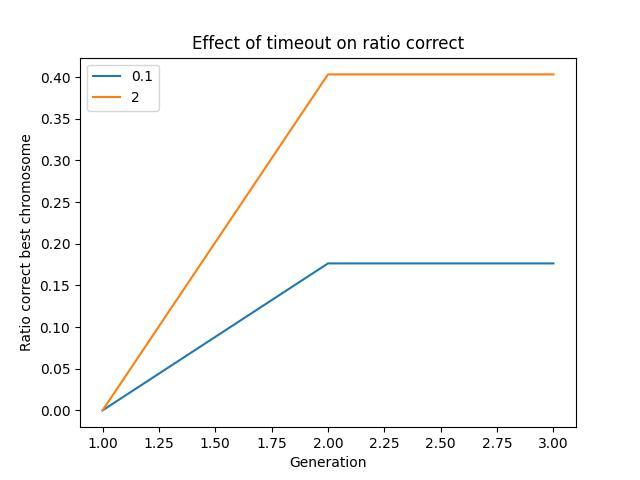
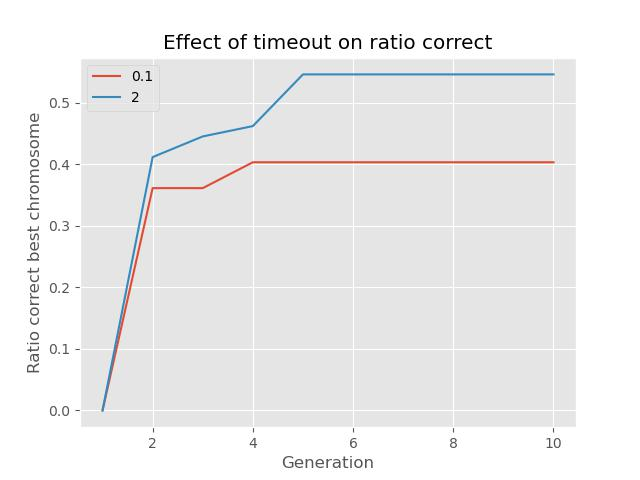
add file path as parameter and add colorblind style

diff --git a/metasynthesis/programming_language/plot_statistics.py b/metasynthesis/programming_language/plot_statistics.py
@@ -8,24 +8,28 @@ from metasynthesis.programming_language.evolve_language import EvolvingLanguage
 
 class LanguageStatistics:
 
-    def __init__(self, domain: str, print_stats: bool = True):
+    def __init__(self, domain: str, print_stats: bool = True, search_mode: str = "debug"):
         self.domain = domain
         self.dsl = StandardDomainSpecificLanguage(domain)
         self.print_stats = print_stats
+        self.search_mode = search_mode
+        self.base_save_path = "metasynthesis/programming_language/results/" + self.search_mode + "/"
+
+        plt.style.use('ggplot')  # ggplot
+        # plt.style.use('tableau-colorblind10')
 
         # These parameters are manually updated based on analysis of the plots
-        self.best_parameters = {"generation_limit": 20,
+        self.best_parameters = {"generation_limit": 10,
                                 "generation_size": 10,
-                                "search_mode": "param",
+                                "search_mode": search_mode,
                                 "search_algorithm": "AS",
                                 "search_setting": "SG",
-                                "max_search_time": 1,
+                                "max_search_time": 0.7,
                                 "crossover_probability": 0.8,
                                 "mutation_probability": 0.3,
                                 }
 
     def plot_search_algorithm_performance(self):
-        plt.style.use('ggplot')  # ggplot
 
         search_algorithms = ["Brute", "AS", "LNS", "MH"]
 
@@ -59,7 +63,7 @@ class LanguageStatistics:
         plt.ylabel("Average generation fitness")
         plt.title("Effect of search algorithm on time and fitness")
         plt.legend(loc="upper left")
-        plt.savefig("metasynthesis/programming_language/results/search_algorithm_comparison.jpg")
+        plt.savefig(self.base_save_path + "search_algorithm_comparison.jpg")
         plt.close()
 
     def plot_search_setting_performance(self):
@@ -102,12 +106,11 @@ class LanguageStatistics:
         plt.ylabel("Average generation fitness")
         plt.title("Effect of search setting on time and fitness")
         plt.legend(loc="upper left")
-        plt.savefig("metasynthesis/programming_language/results/search_setting_comparison.jpg")
+        plt.savefig(self.base_save_path + "search_setting_comparison.jpg")
         plt.close()
 
     def plot_search_timeout_performance(self):
-        # timeouts = [0.1, 0.5, 1, 2, 6, 10]
-        timeouts = [0.1, 2]
+        timeouts = [0.1, 0.5, 1, 2, 6, 10]
 
         general_genetic = EvolvingLanguage(max_search_time=self.best_parameters["max_search_time"],
                                            generation_size=self.best_parameters["generation_size"])
@@ -149,14 +152,14 @@ class LanguageStatistics:
         plt.ylabel("Ratio correct best chromosome")
         plt.title("Effect of timeout on ratio correct")
         plt.legend(loc="upper left")
-        plt.savefig("metasynthesis/programming_language/results/search_timeout_comparison_correct.jpg")
+        plt.savefig(self.base_save_path + "search_timeout_comparison_correct.jpg")
 
         plt.figure(2)
         plt.xlabel("Generation")
         plt.ylabel("Generation time taken")
         plt.title("Effect of timeout on generation time")
         plt.legend(loc="upper left")
-        plt.savefig("metasynthesis/programming_language/results/search_timeout_comparison_time.jpg")
+        plt.savefig(self.base_save_path + "search_timeout_comparison_time.jpg")
 
         plt.close('all')
 
@@ -197,7 +200,7 @@ class LanguageStatistics:
         plt.ylabel("Best fitness")
         plt.title("Effect of mutation methods on fitness")
         plt.legend(loc="upper left")
-        plt.savefig("metasynthesis/programming_language/results/mutation_method_comparison.jpg")
+        plt.savefig(self.base_save_path + "mutation_method_comparison.jpg")
         plt.close()
 
     def plot_crossover_method_performance(self):
@@ -236,7 +239,7 @@ class LanguageStatistics:
         plt.ylabel("Average fitness")
         plt.title("Effect of crossover methods on fitness")
         plt.legend(loc="upper left")
-        plt.savefig("metasynthesis/programming_language/results/crossover_method_comparison.jpg")
+        plt.savefig(self.base_save_path + "crossover_method_comparison.jpg")
         plt.close()
 
     def plot_population_size_performance(self):
@@ -259,7 +262,8 @@ class LanguageStatistics:
             all_results = genetic.run_evolution()
 
             num_explored_languages = all_results["Explored languages"]
-            generations, generation_times, best_fitness_values = extract_generation_time_and_fitness(all_results, "Best fitness")
+            generations, generation_times, best_fitness_values = extract_generation_time_and_fitness(all_results,
+                                                                                                     "Best fitness")
 
             cumulative_generation_times = [sum(generation_times[0:i[0]]) for i in enumerate(generation_times)]
 
@@ -269,7 +273,7 @@ class LanguageStatistics:
         plt.ylabel("Best fitness value")
         plt.title("Effect of population size on fitness vs time passed")
         plt.legend(loc="upper left")
-        plt.savefig("metasynthesis/programming_language/results/population_size_comparison.jpg")
+        plt.savefig(self.base_save_path + "population_size_comparison.jpg")
         plt.close()
 
     def plot_generation_limit_performance(self):
@@ -289,7 +293,8 @@ class LanguageStatistics:
             all_results = genetic.run_evolution()
 
             num_explored_languages = all_results["Explored languages"]
-            generations, generation_times, best_fitness_values = extract_generation_time_and_fitness(all_results, "Best fitness")
+            generations, generation_times, best_fitness_values = extract_generation_time_and_fitness(all_results,
+                                                                                                     "Best fitness")
 
             cumulative_generation_times = [sum(generation_times[0:i[0]]) for i in enumerate(generation_times)]
 
@@ -299,8 +304,9 @@ class LanguageStatistics:
         plt.ylabel("Best fitness value")
         plt.title("Effect of generation limit on fitness vs time passed")
         plt.legend(loc="upper left")
-        plt.savefig("metasynthesis/programming_language/results/generation_limit_comparison.jpg")
+        plt.savefig(self.base_save_path + "generation_limit_comparison.jpg")
         plt.close()
+
 
 def extract_generation_time_and_fitness(all_results: Dict, fitness_to_get: str):
     generation_statistics = all_results["Generation statistics"]

diff --git a/language_run_genetic.py b/language_run_genetic.py
@@ -39,12 +39,12 @@ if __name__ == '__main__':
 
     # run_genetic_algorithm_once(domain)
 
-    stats = LanguageStatistics(domain=domain, print_stats=True)
+    stats = LanguageStatistics(domain=domain, print_stats=True, search_mode="param")
 
-    stats.plot_search_algorithm_performance()
-    stats.plot_search_setting_performance()
-    stats.plot_search_timeout_performance()
-    stats.plot_mutation_method_performance()
-    stats.plot_crossover_method_performance()
+    # stats.plot_search_algorithm_performance()
+    # stats.plot_search_setting_performance()
+    # stats.plot_search_timeout_performance()
+    # stats.plot_mutation_method_performance()
+    # stats.plot_crossover_method_performance()
     stats.plot_population_size_performance()
     stats.plot_generation_limit_performance()
